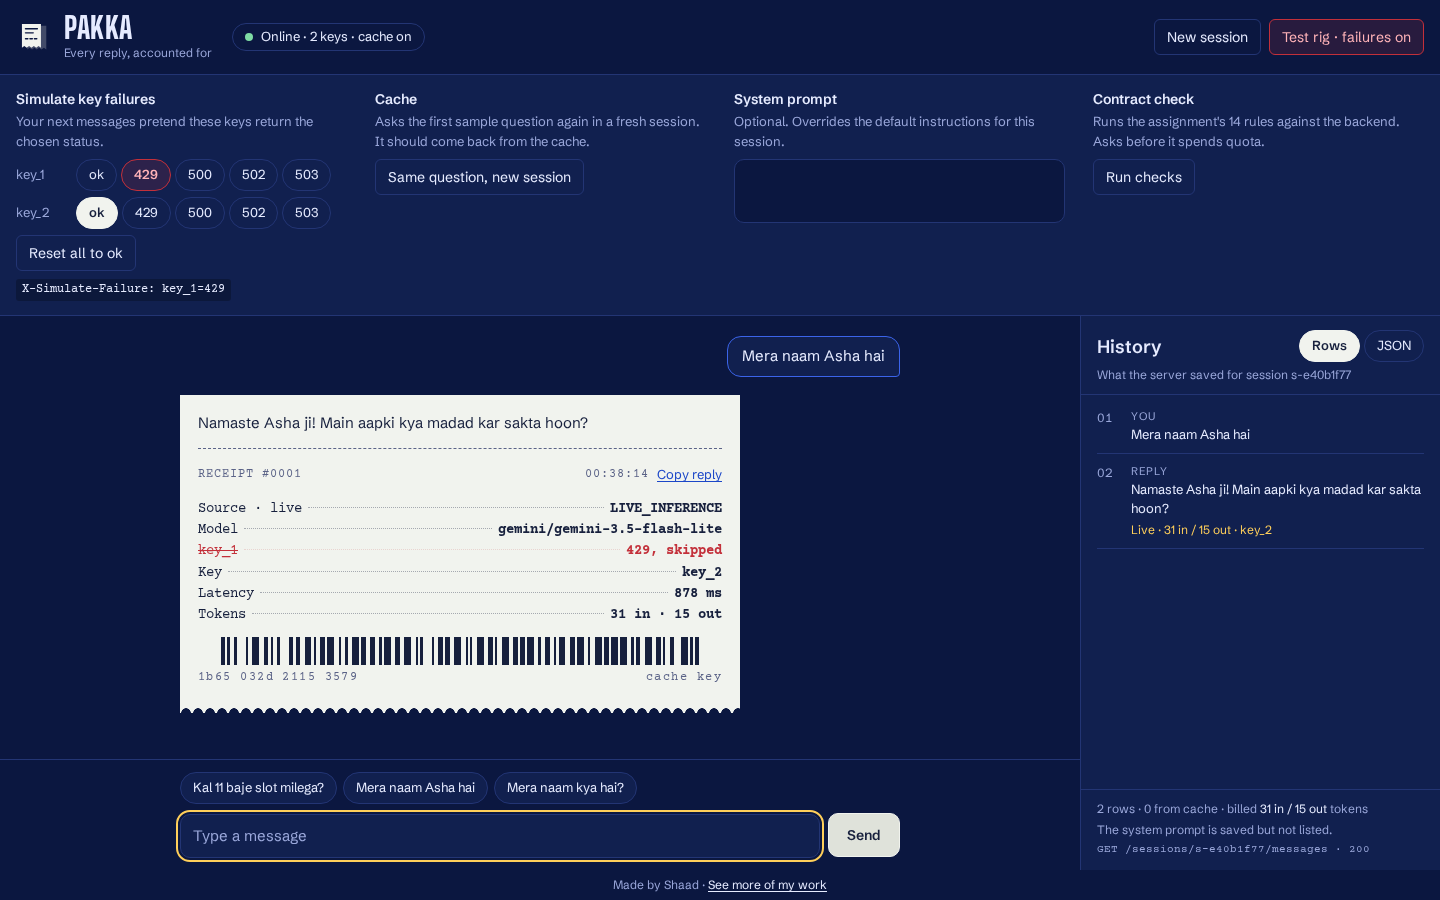
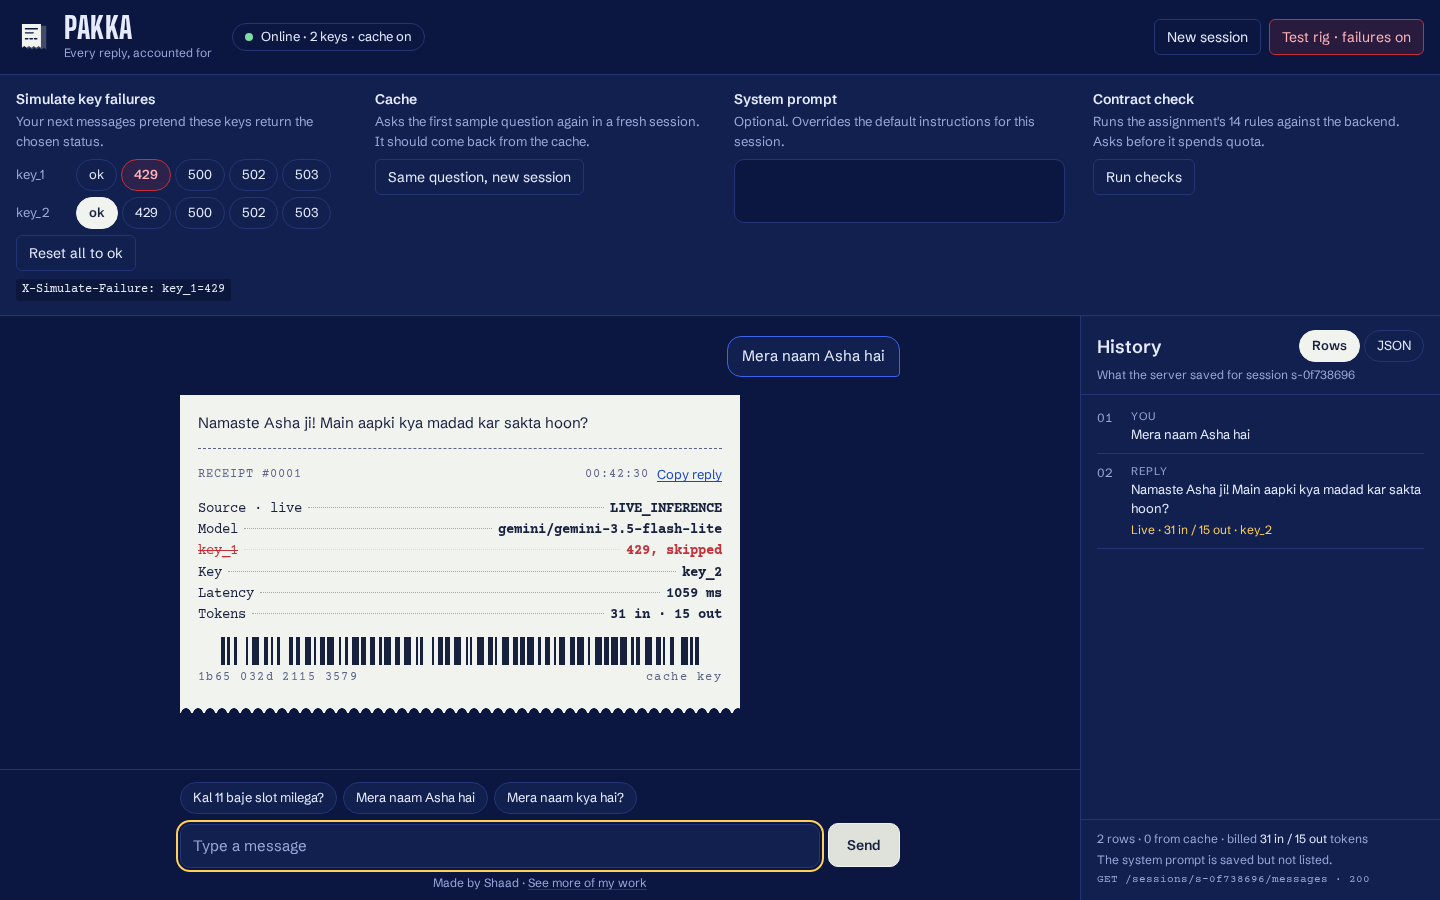
Keep History full height, quiet the credit link
Move the credit line into the chat column so the History panel runs to
the bottom of the screen. Set the link in the muted colour with a faint
underline that brightens on hover. Add a test for both, and retake the
README images.

Changed region(s): [[0.125, 0.84, 0.625, 0.9956], [0.75, 0.8711, 0.9375, 0.9956], [0.9062, 0.4044, 0.9375, 0.4356]]

diff --git a/frontend/src/styles.css b/frontend/src/styles.css
@@ -316,10 +316,7 @@ textarea { caret-color: var(--amber); }
 /* Composer */
 .composer-wrap {
   border-top: 1px solid var(--rule);
-  padding-block: 0.75rem;
-  padding-left: var(--gutter-l);
-  padding-right: 1rem;
-  padding-bottom: calc(0.75rem + env(safe-area-inset-bottom, 0px));
+  padding: 0.75rem 1rem 0.375rem var(--gutter-l);
 }
 .composer-wrap > * { max-width: 45rem; margin-inline: auto; }
 /* Sample chips scroll sideways; the fade says there is more, and the spacer lets the last chip clear it. */
@@ -383,8 +380,10 @@ textarea::placeholder { color: var(--muted); }
 .ledger .endpoint { font-family: var(--f-slip); font-size: 0.6875rem; overflow-wrap: anywhere; }
 
 /* Page credit */
-.credit { flex: none; text-align: center; font-size: 0.75rem; color: var(--muted); padding: 0.375rem 1rem calc(0.375rem + env(safe-area-inset-bottom, 0px)); }
-.credit a { color: var(--fg); text-underline-offset: 2px; }
+/* Inside the chat column, so the History panel runs the full height beside it. Quiet, but a readable link. */
+.credit { flex: none; text-align: center; font-size: 0.75rem; color: var(--muted); padding: 0 var(--gutter-r) calc(0.5rem + env(safe-area-inset-bottom, 0px)); }
+.credit a { color: var(--muted); text-decoration: underline; text-decoration-color: var(--rule); text-underline-offset: 2px; transition: color 0.12s ease, text-decoration-color 0.12s ease; }
+.credit a:hover { color: var(--fg); text-decoration-color: currentColor; }
 
 /* Contract check dialog */
 .modal {

diff --git a/frontend/src/App.jsx b/frontend/src/App.jsx
@@ -360,6 +360,9 @@ export default function App() {
           </div>
           {newBelow && <div className="below"><button className="btn" type="button" onClick={toBottom}>New reply below</button></div>}
           <Composer onSend={send} pending={pending} />
+          <footer className="credit">
+            Made by Shaad · <a href="https://madebyshaad.com" target="_blank" rel="noopener">See more of my work</a>
+          </footer>
         </section>
 
         {ledgerOpen && <div className="scrim" onClick={() => setLedgerOpen(false)} />}
@@ -373,10 +376,6 @@ export default function App() {
           inert={inspecting}
         />
       </main>
-
-      <footer className="credit">
-        Made by Shaad · <a href="https://madebyshaad.com" target="_blank" rel="noopener">See more of my work</a>
-      </footer>
 
       {inspecting && <Inspection onClose={() => { setInspecting(false); loadLedger(sidRef.current); }} />}
     </div>

diff --git a/README.md b/README.md
@@ -20,8 +20,8 @@
 | Any reply | Counts what that one reply used | Latency · input and output tokens |
 
 <p align="center">
-  <img src="docs/images/screens/hero.png" alt="Pakka chat. The first answer is LIVE_INFERENCE from key_1 in 1501 ms, 40 in and 25 out tokens. The same question in a new session comes back from the cache in 1 ms, 0 billed, with the same barcode and a link to the first receipt. The History panel shows the saved rows." width="100%">
-  <br><sub>A real run, nothing simulated: a live answer in 1.5 s. Asked again in a new session, the same answer came from the cache in 1 ms and billed 0 tokens. Each receipt has a <b>Copy reply</b> link.</sub>
+  <img src="docs/images/screens/hero.png" alt="Pakka chat. The first answer is LIVE_INFERENCE from key_1 in 997 ms, 38 in and 30 out tokens. The same question in a new session comes back from the cache in 1 ms, 0 billed, with the same barcode and a link to the first receipt. The History panel shows the saved rows." width="100%">
+  <br><sub>A real run, nothing simulated: a live answer in 1 s. Asked again in a new session, the same answer came from the cache in 1 ms and billed 0 tokens. Each receipt has a <b>Copy reply</b> link.</sub>
 </p>
 
 > **Grading on a clock?** Open the app, open **Test rig** and press **Run checks**, then **Start**. All 14 contract rules run live from your browser.
